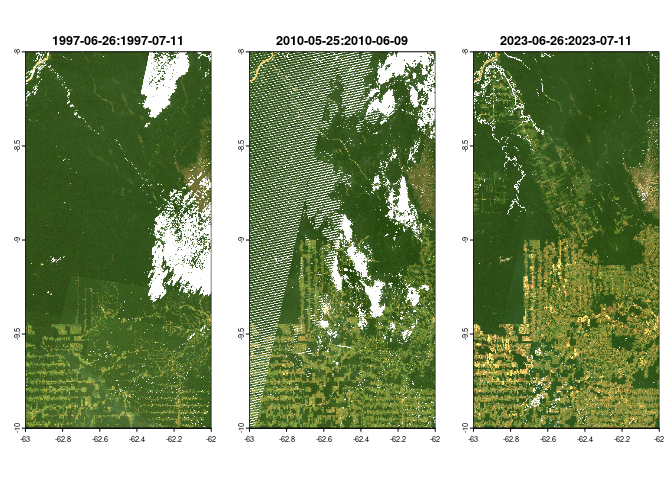
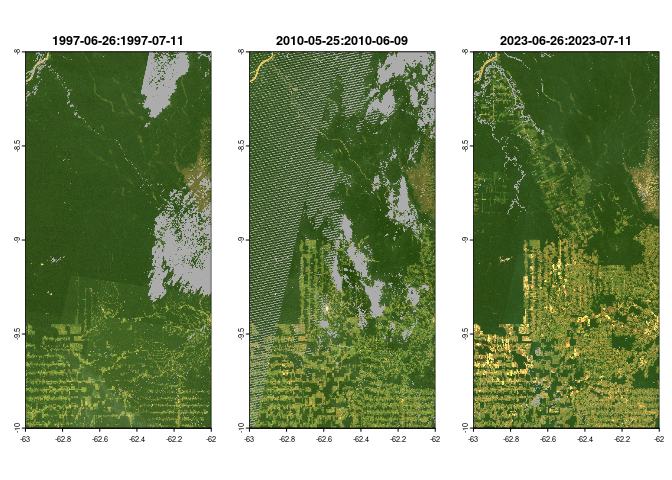
update readme

diff --git a/README.md b/README.md
@@ -16,7 +16,7 @@ series of globally consistent, tiled Landsat normalized surface
 reflectance from 1997 to the present operationally updated every 16
 days.
 
-This package interacts with the [GLAD ARD
+This R package interacts with the [GLAD ARD
 API](https://www.glad.umd.edu/ard/home#download) to download and process
 the data.
 
@@ -66,44 +66,53 @@ print(ron_urls)
 
 And now let’s download the data and plot it. Note that although an
 object of class `ard_glad` is returned, in reality this is just a list
-of SpatRasters and can be coerced back to a list with `as.list`.
+of lists that contain information about each raster; to convert this to
+a more general use object for R, use `as.list` which will coerce the
+object to a list of `SpatRasters`.
+
+Note we can use `future` to parallelise some of the operations such as
+downloads and masking - by setting the plan here parallisation will be
+carried out automatically.
 
 ``` r
+future::plan("multisession", workers = 3)
+
 ron_ras <- ard_glad_download(ron_urls, "rondonia_glad")
-#> ℹ Downloading files for time period: 2023-06-26:2023-07-11
-#> ℹ Downloading files for time period: 2023-07-12:2023-07-27
-#> ℹ Downloading files for time period: 2023-07-28:2023-08-12
 
 print(ron_ras)
 #> 
-#> ── < ARD GLAD rasters>
+#> ── < 3 ARD GLAD mosaics >
 #> 
 #> ── [[1]] 2023-06-26:2023-07-11 ─────────────────────────────────────────────────
-#> class       : SpatRaster 
-#> dimensions  : 8004, 4004, 8  (nrow, ncol, nlyr)
-#> resolution  : 0.00025, 0.00025  (x, y)
-#> extent      : -63.0005, -61.9995, -10.0005, -7.9995  (xmin, xmax, ymin, ymax)
-#> coord. ref. : lon/lat WGS 84 (EPSG:4326) 
-#> source      : rondonia_glad_2023_06_26_2023_07_11.vrt 
-#> names       : B, G, R, N, S1, S2, ...
+#> source :
+#> /home/hugh/TESS-Projects/ardglad/rondonia_glad/rondonia_glad_2023_06_26_2023_07_11/rondonia_glad_2023_06_26_2023_07_11.vrt
+#> dimensions : 8004, 4004, 8 (nrow, ncol, nlyr)
+#> resolution : 0.00025, 0.00025 (x, y)
+#> extent : ext(-63.0005, -61.9995, -10.0005, -7.9995) (xmin, xmax, ymin, ymax)
+#> coord. ref. : lon/lat WGS 84 (EPSG:4326)
+#> band names : B, G, R, N, S1, S2, T, QA
+#> 
 #> 
 #> ── [[2]] 2023-07-12:2023-07-27 ─────────────────────────────────────────────────
-#> class       : SpatRaster 
-#> dimensions  : 8004, 4004, 8  (nrow, ncol, nlyr)
-#> resolution  : 0.00025, 0.00025  (x, y)
-#> extent      : -63.0005, -61.9995, -10.0005, -7.9995  (xmin, xmax, ymin, ymax)
-#> coord. ref. : lon/lat WGS 84 (EPSG:4326) 
-#> source      : rondonia_glad_2023_07_12_2023_07_27.vrt 
-#> names       : B, G, R, N, S1, S2, ...
+#> 
+#> source :
+#> /home/hugh/TESS-Projects/ardglad/rondonia_glad/rondonia_glad_2023_07_12_2023_07_27/rondonia_glad_2023_07_12_2023_07_27.vrt
+#> dimensions : 8004, 4004, 8 (nrow, ncol, nlyr)
+#> resolution : 0.00025, 0.00025 (x, y)
+#> extent : ext(-63.0005, -61.9995, -10.0005, -7.9995) (xmin, xmax, ymin, ymax)
+#> coord. ref. : lon/lat WGS 84 (EPSG:4326)
+#> band names : B, G, R, N, S1, S2, T, QA
+#> 
 #> 
 #> ── [[3]] 2023-07-28:2023-08-12 ─────────────────────────────────────────────────
-#> class       : SpatRaster 
-#> dimensions  : 8004, 4004, 8  (nrow, ncol, nlyr)
-#> resolution  : 0.00025, 0.00025  (x, y)
-#> extent      : -63.0005, -61.9995, -10.0005, -7.9995  (xmin, xmax, ymin, ymax)
-#> coord. ref. : lon/lat WGS 84 (EPSG:4326) 
-#> source      : rondonia_glad_2023_07_28_2023_08_12.vrt 
-#> names       : B, G, R, N, S1, S2, ...
+#> 
+#> source :
+#> /home/hugh/TESS-Projects/ardglad/rondonia_glad/rondonia_glad_2023_07_28_2023_08_12/rondonia_glad_2023_07_28_2023_08_12.vrt
+#> dimensions : 8004, 4004, 8 (nrow, ncol, nlyr)
+#> resolution : 0.00025, 0.00025 (x, y)
+#> extent : ext(-63.0005, -61.9995, -10.0005, -7.9995) (xmin, xmax, ymin, ymax)
+#> coord. ref. : lon/lat WGS 84 (EPSG:4326)
+#> band names : B, G, R, N, S1, S2, T, QA
 
 par(mfrow = c(1, 3))
 plot(ron_ras)
@@ -116,7 +125,8 @@ We can also query specific moments through time, by specifying multiple
 
 ``` r
 ron_urls_97_23 <- ard_glad_urls(
-  rondonia_eg, c("1997-06-30", "2010-06-01", "2023-06-30")
+  rondonia_eg,
+  c("1997-06-30", "2010-06-01", "2023-06-30")
 )
 ```
 
@@ -126,12 +136,18 @@ for further analysis:
 ``` r
 ron_ras_97_23_masked <- ard_glad_download(ron_urls_97_23, "rondonia_glad") |>
   ard_glad_mask()
-#> ℹ Downloading files for time period: 1997-06-26:1997-07-11
-#> ℹ Downloading files for time period: 2010-05-25:2010-06-09
-#> ℹ Downloading files for time period: 2023-06-26:2023-07-11
 
 par(mfrow = c(1, 3))
 plot(ron_ras_97_23_masked)
 ```
 
 <img src="man/figures/README-cloud-mask-1.png" width="100%" />
+
+As a bonus, here is a false colour composite:
+
+``` r
+par(mfrow = c(1, 3))
+plot(ron_ras_97_23_masked, r = 4, g = 3, b = 2)
+```
+
+<img src="man/figures/README-fcc-1.png" width="100%" />
